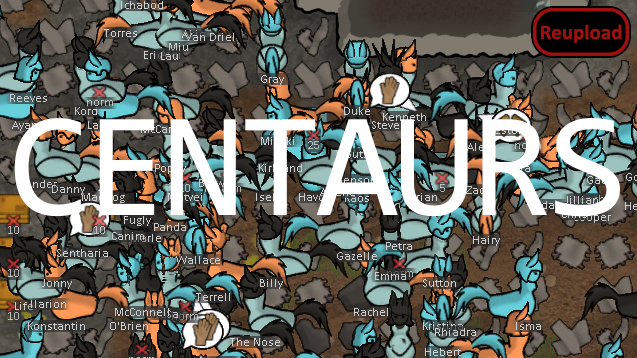
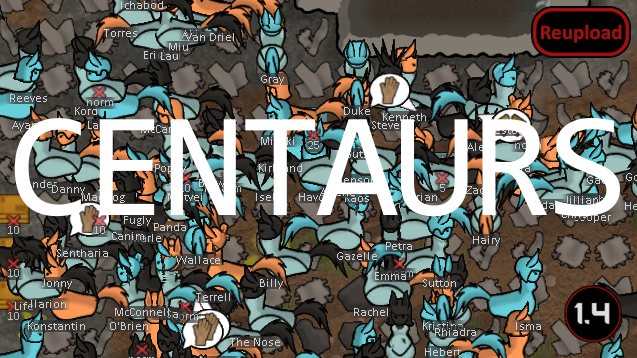
Last update, added end-of-life message

Changed region(s): [[0.865, 0.7989, 0.9843, 0.9832]]

diff --git a/README.md b/README.md
@@ -5,13 +5,13 @@
 This is a upload of Zedralans mod
 	https://steamcommunity.com/sharedfiles/filedetails/?id=1576793761
 
-![Image](https://i.imgur.com/pufA0kM.png)
+![Image](https://i.imgur.com/KFjAmff.png)
 
 	
 ![Image](https://i.imgur.com/Z4GOv8H.png)
 
 
-It&apos;s highly unlikely that this mod will be receiving any additional work. Due to the nature of Rimworld mods all files are open for editing, and anyone interested is welcome to use anything here for their own mods.
+It’s highly unlikely that this mod will be receiving any additional work. Due to the nature of Rimworld mods all files are open for editing, and anyone interested is welcome to use anything here for their own mods.
 
 
 
@@ -22,7 +22,7 @@ It does not currently integrate centaurs into the world nor does it have enough 
 
 
 
-A genetically engineered solution to anyone&apos;s labor problems, a centaur is the obvious choice.
+A genetically engineered solution to anyone’s labor problems, a centaur is the obvious choice.
 
 Centaur biology makes them fast and durable but may or may not be balanced by their larger size and inability to wear heavy armours. Probably way more OP when player controlled with a sniper rifle than anyone could have guessed.
 
@@ -39,12 +39,13 @@ Many thanks to the Androids race mod which made me want to do this, and to the O
 
 -  See if the the error persists if you just have this mod and its requirements active.
 -  If not, try adding your other mods until it happens again.
--  Post your error-log using https://steamcommunity.com/workshop/filedetails/?id=818773962]HugsLib and command Ctrl+F12
+-  Post your error-log using https://steamcommunity.com/workshop/filedetails/?id=818773962]HugsLib or the standalone https://steamcommunity.com/sharedfiles/filedetails/?id=2873415404]Uploader and command Ctrl+F12
 -  For best support, please use the Discord-channel for error-reporting.
 -  Do not report errors by making a discussion-thread, I get no notification of that.
 -  If you have the solution for a problem, please post it to the GitHub repository.
+-  Use https://github.com/RimSort/RimSort/releases/latest]RimSort to sort your mods
 
 
 
+https://steamcommunity.com/sharedfiles/filedetails/changelog/2008741820]![Image](https://img.shields.io/github/v/release/emipa606/Centaurs?label=latest%20version&style=plastic&color=9f1111&labelColor=black)
 
-https://steamcommunity.com/sharedfiles/filedetails/changelog/2008741820]Last updated 2023-01-09
